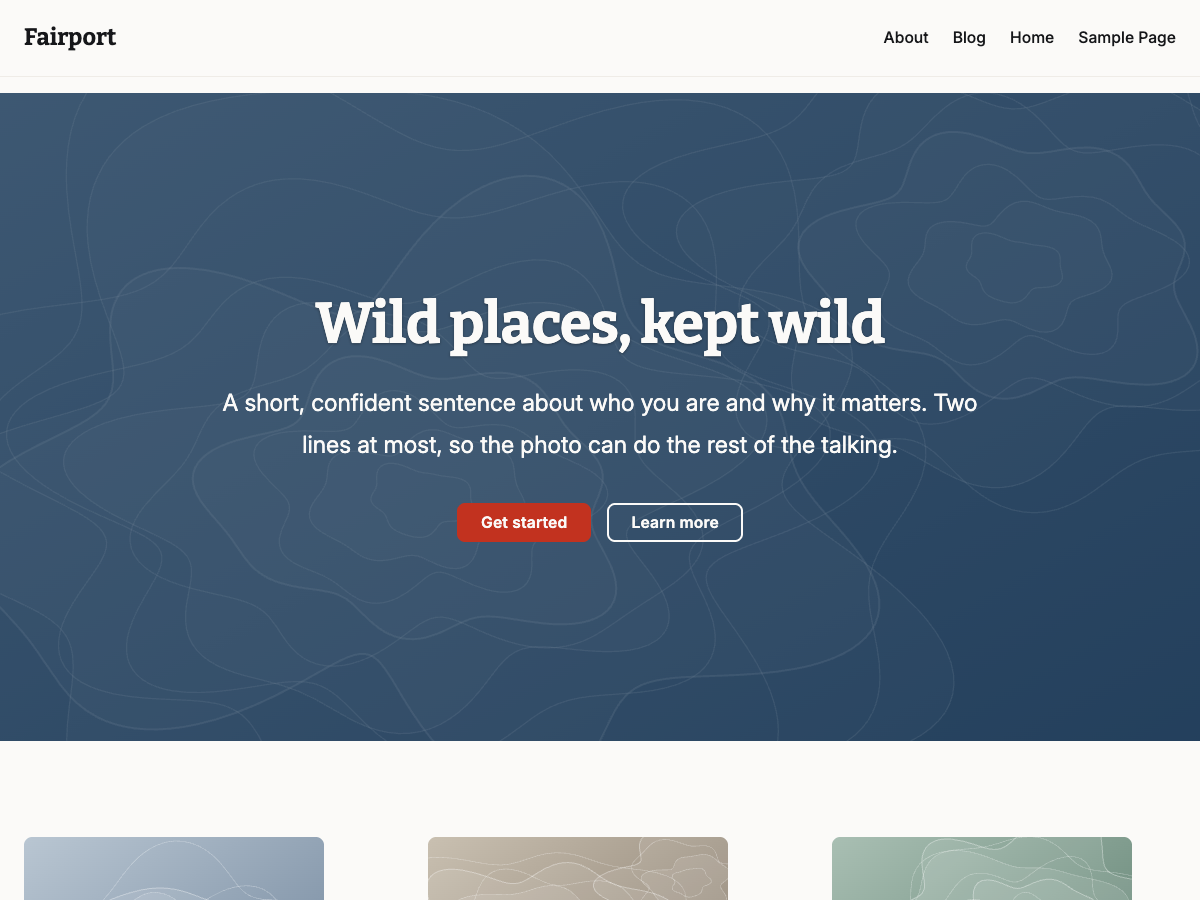
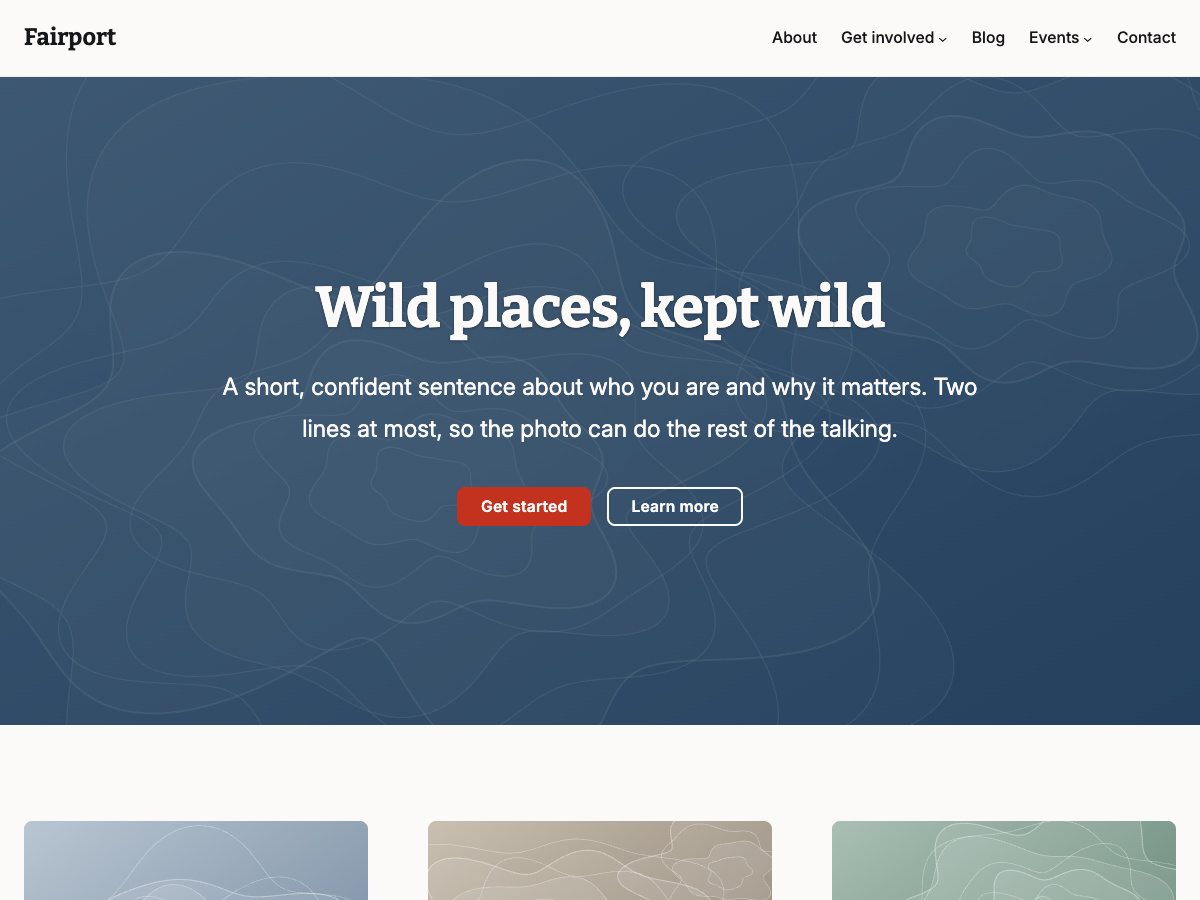
docs: fresh screenshot and README previews
Adds bin/previews.js (npm run previews) to capture the README images,
switching colour and typography presets between shots.

diff --git a/bin/previews.js b/bin/previews.js
@@ -1,0 +1,72 @@
+#!/usr/bin/env node
+/* eslint-disable no-console -- CLI progress for npm run previews */
+/**
+ * Captures the README preview images into .github/.
+ *
+ * Palette shots switch the active colour preset through
+ * bin/preview-variation.php, which writes to the user global styles record
+ * the same way the Styles panel does, and reset it afterwards.
+ *
+ * Usage:
+ *   npm run previews -- http://fairport.local
+ */
+
+const { execFileSync } = require("child_process");
+const path = require("path");
+const puppeteer = require("puppeteer");
+
+const base = (process.argv[2] || "http://fairport.local").replace(/\/$/, "");
+const outDir = path.resolve(__dirname, "..", ".github");
+const wp = path.join(__dirname, "wp.sh");
+
+const shots = [
+	{ file: "1-home.png", url: "/", width: 1440, height: 900, fullPage: true },
+	{ file: "2-single.png", url: "/hello-world/", width: 1440, height: 900, fullPage: true },
+	{ file: "3-about.png", url: "/about/", width: 1440, height: 900, fullPage: true },
+	{ file: "4-mobile-home.png", url: "/", width: 390, height: 844, fullPage: false, mobile: true },
+	{
+		file: "5-forest-green.png",
+		url: "/",
+		width: 1440,
+		height: 900,
+		fullPage: false,
+		presets: ["Forest Green", "Fraunces & Manrope"],
+	},
+	{
+		file: "6-scarlet-red.png",
+		url: "/about/",
+		width: 1440,
+		height: 900,
+		fullPage: false,
+		presets: ["Scarlet Red", "Manrope"],
+	},
+];
+
+function applyPresets(names) {
+	execFileSync(wp, ["eval-file", path.join(__dirname, "preview-variation.php"), ...names], {
+		stdio: "ignore",
+	});
+}
+
+(async () => {
+	const browser = await puppeteer.launch();
+	const page = await browser.newPage();
+
+	for (const shot of shots) {
+		applyPresets(shot.presets || ["reset"]);
+		await page.setViewport({
+			width: shot.width,
+			height: shot.height,
+			deviceScaleFactor: 2,
+			isMobile: !!shot.mobile,
+		});
+		await page.goto(base + shot.url, { waitUntil: "networkidle2" });
+		await page.evaluate(() => document.fonts.ready);
+		const file = path.join(outDir, shot.file);
+		await page.screenshot({ path: file, fullPage: !!shot.fullPage });
+		console.log(`Saved ${path.relative(process.cwd(), file)}`);
+	}
+
+	applyPresets(["reset"]);
+	await browser.close();
+})();

diff --git a/README.md b/README.md
@@ -8,6 +8,20 @@ Big photo mastheads with a single colour overlay, a serif and sans type pairing 
 
 See [`readme.txt`](readme.txt) for the directory listing.
 
+![The Fairport home page: photo masthead with a colour overlay, three signposts, a statement over a photo and a follow band.](.github/1-home.png)
+
+## A closer look
+
+![A single post: category eyebrow, title and meta over the featured image, tag pills, an author card, comments and a "Keep reading" row.](.github/2-single.png)
+
+![The About starter: page title banner, intro, call to action band and a board list.](.github/3-about.png)
+
+![The Forest Green palette with the Fraunces & Manrope typography preset.](.github/5-forest-green.png)
+
+![The Scarlet Red palette with the Manrope typography preset, on the About page.](.github/6-scarlet-red.png)
+
+<img src=".github/4-mobile-home.png" alt="The home page on a phone." width="390">
+
 ## Requirements
 
 - WordPress 6.6+ (section styles)
@@ -23,7 +37,7 @@ npm run build        # production build → dist/
 npm run lint:scss && npm run lint:php
 ```
 
-`bin/wp.sh` wraps WP-CLI for the `fairport` Local site. `npm run screenshot -- http://fairport.local` regenerates `screenshot.png`.
+`bin/wp.sh` wraps WP-CLI for the `fairport` Local site. `npm run screenshot -- http://fairport.local` regenerates `screenshot.png`; `npm run previews -- http://fairport.local` regenerates the README images in `.github/` (it switches palettes through `bin/preview-variation.php` and resets afterwards). `npm run validate:blocks` checks every pattern, template and part against the editor's block validator.
 
 ## Releasing
 
